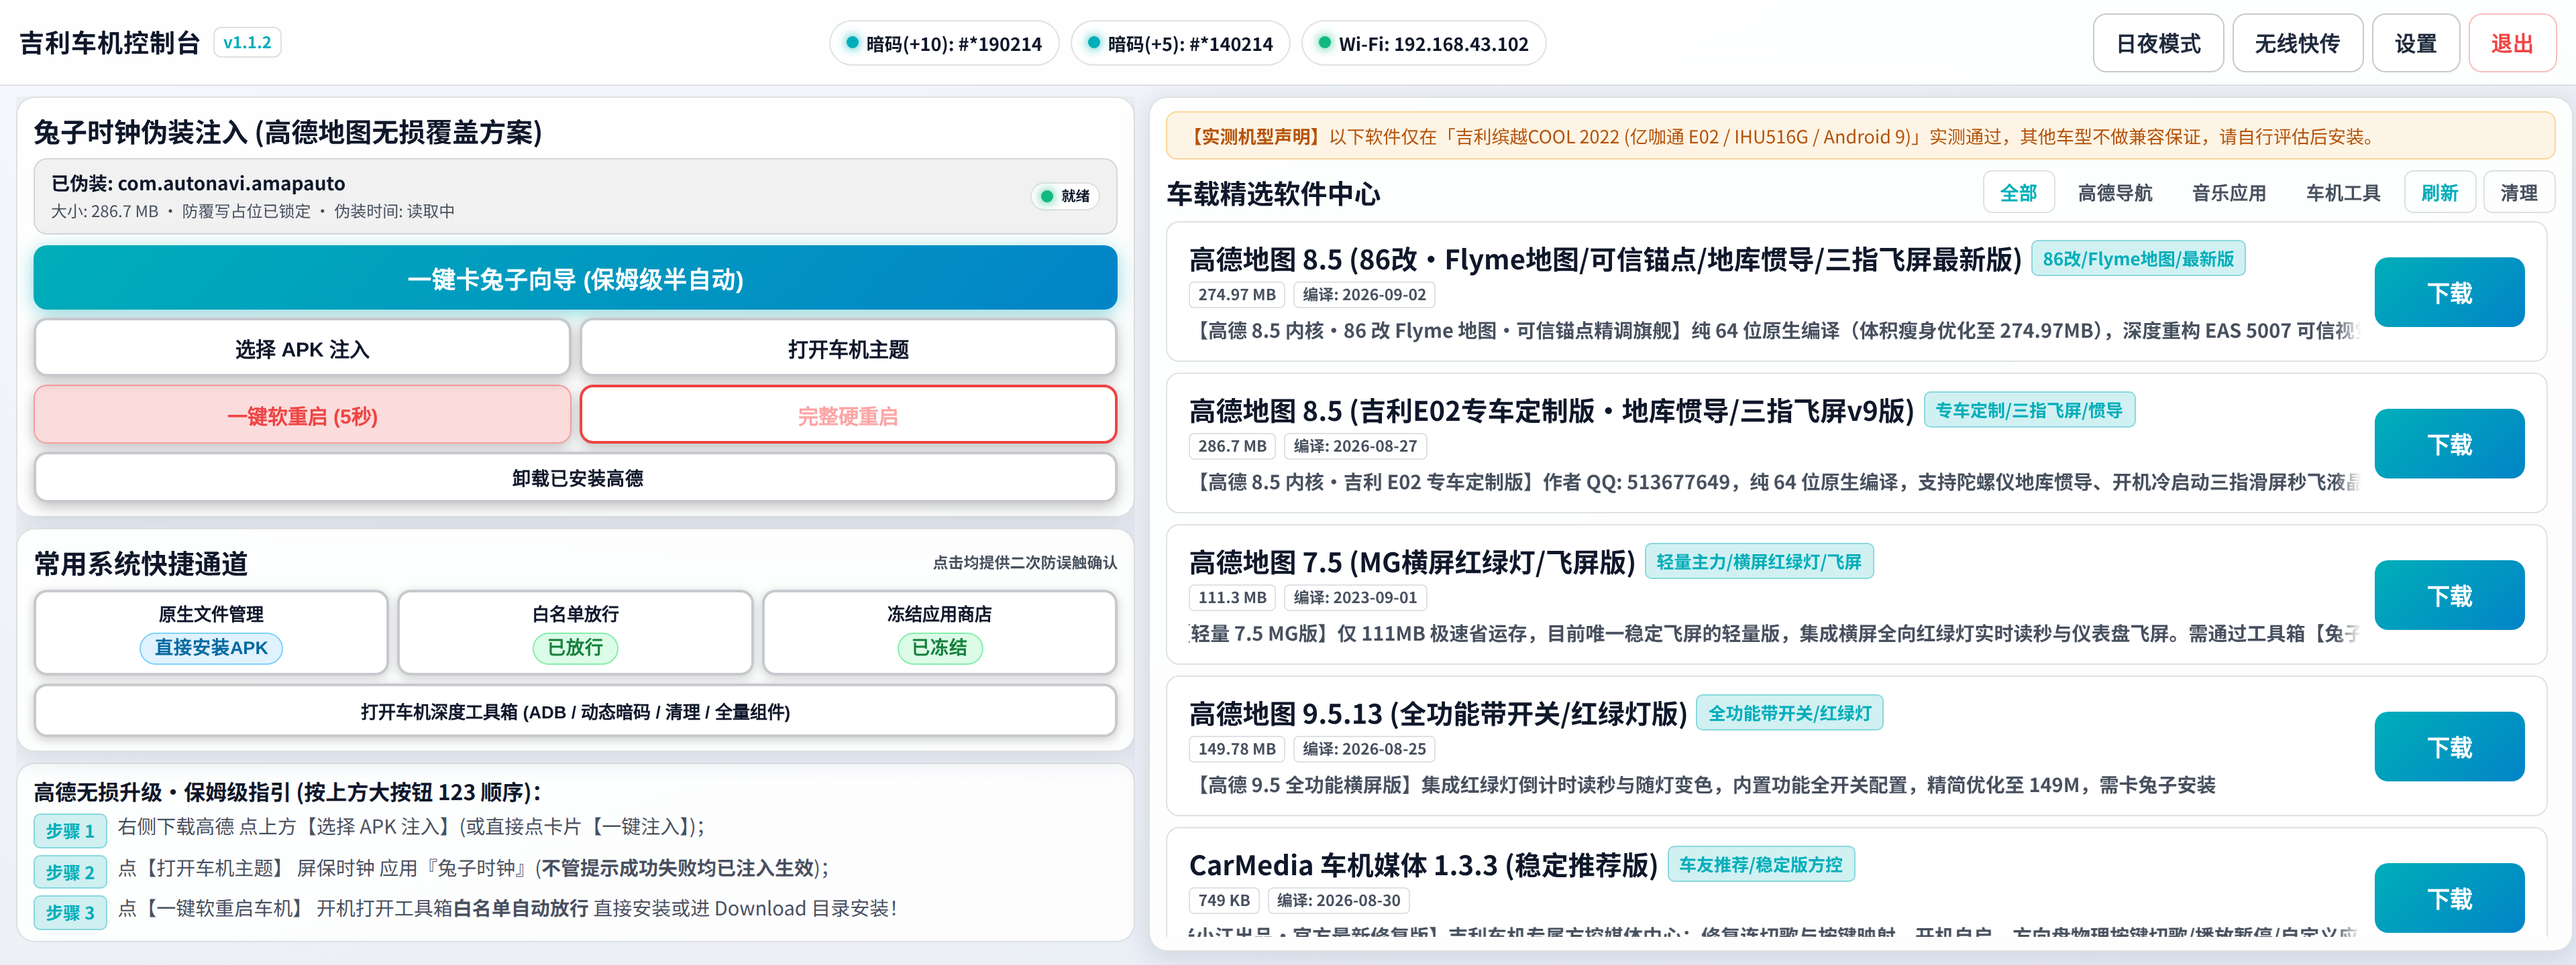
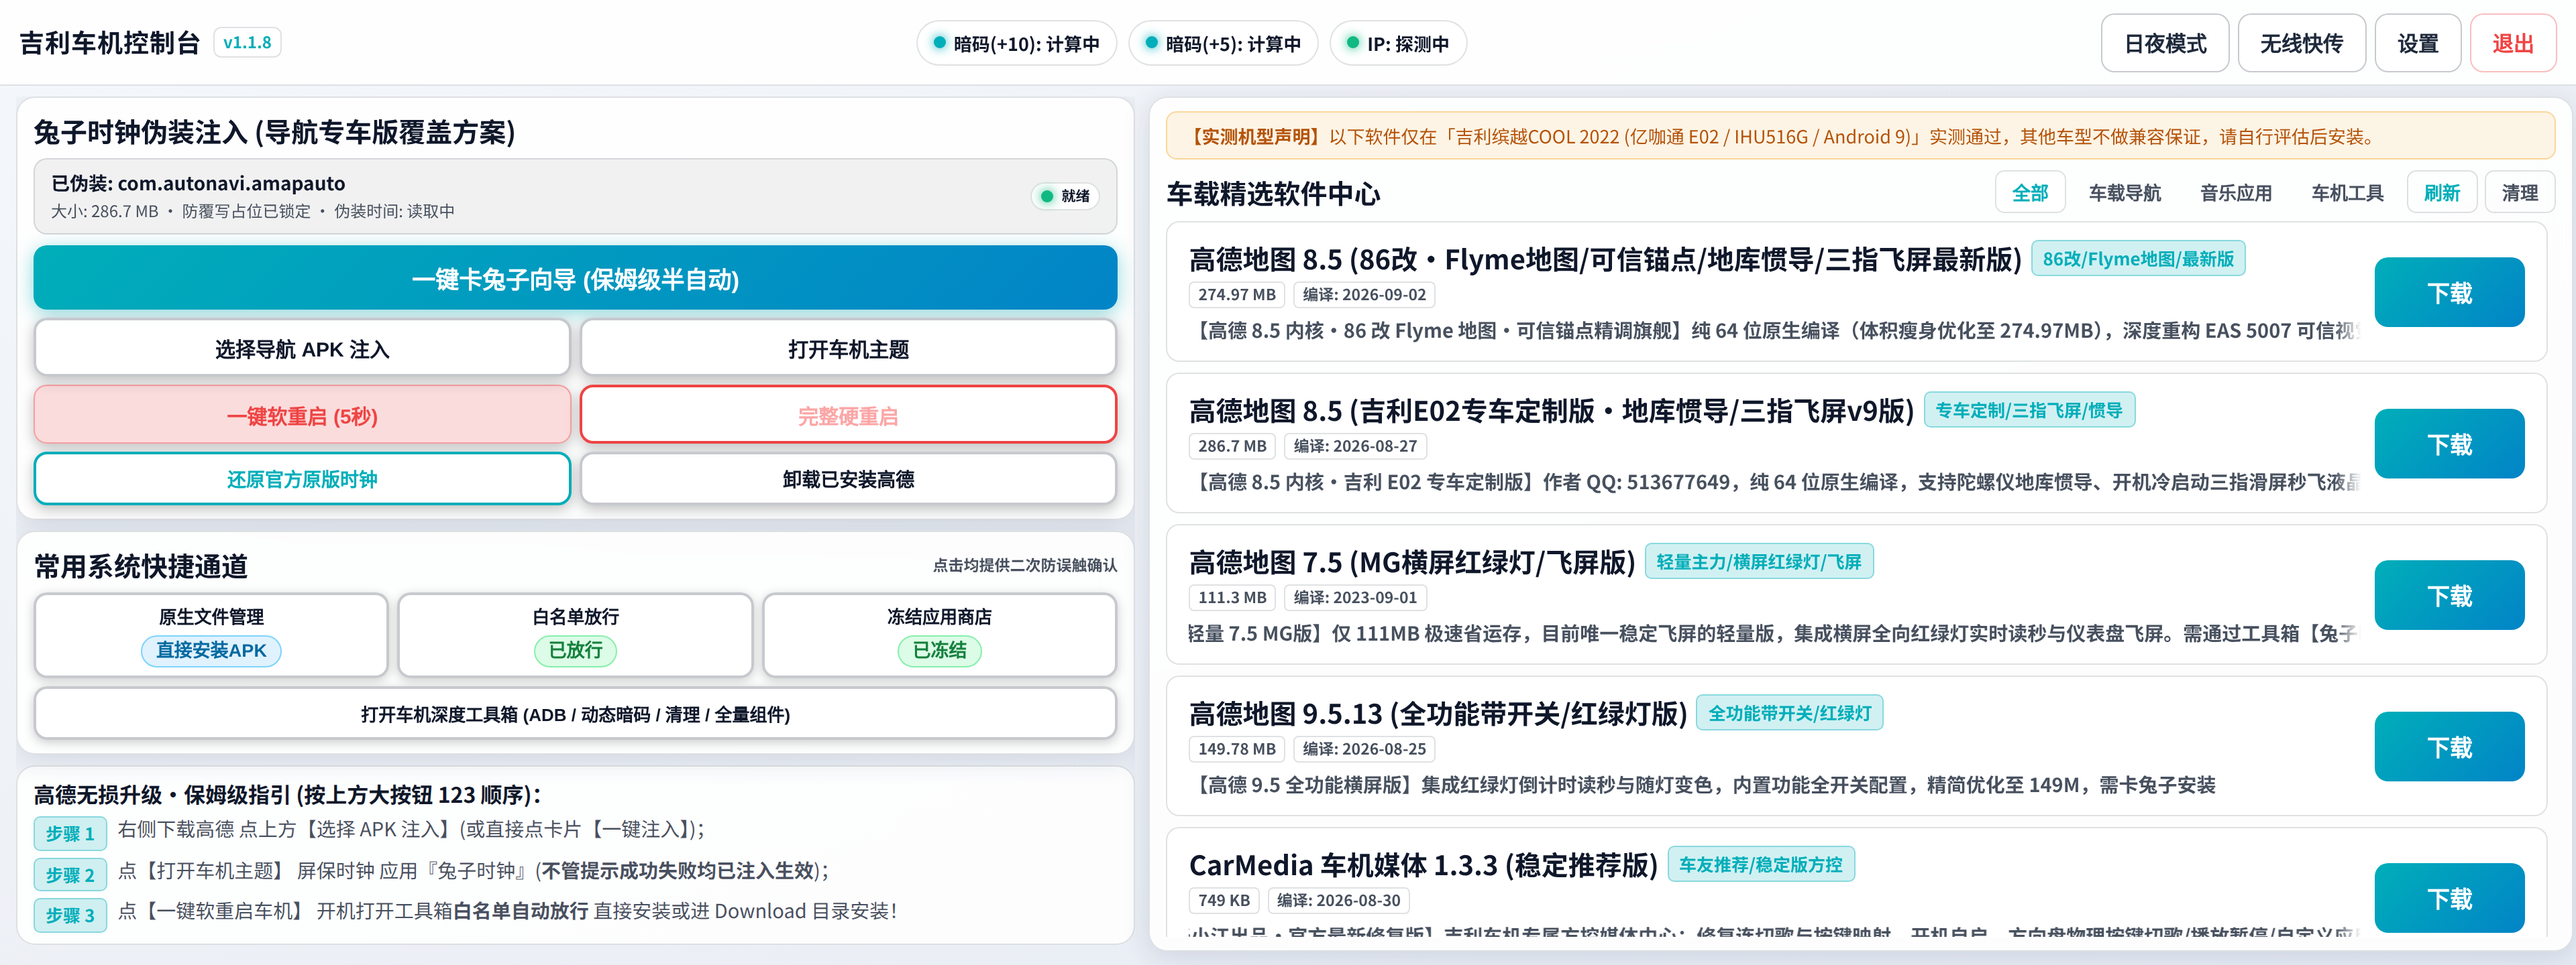
docs: refresh cockpit screenshots without borders and update v1.1.8 specs

diff --git a/README.md b/README.md
@@ -183,7 +183,7 @@
 
 ---
 
-### 7. 云端车载精选软件生态（16 款实测精选）
+### 10. 云端车载精选软件生态（16 款实测精选）
 
 所有软件以 APK 内部真实编译时间为准标注【编译: YYYY-MM-DD】：
 
